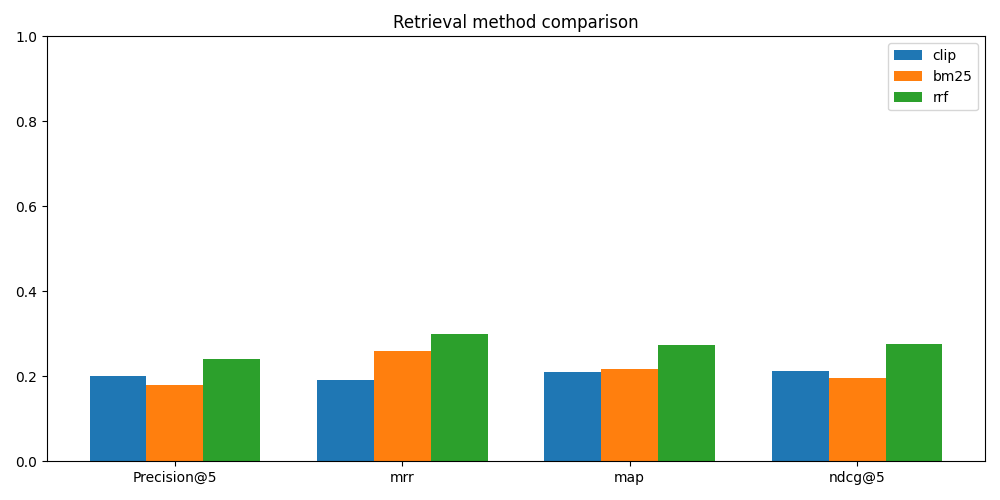
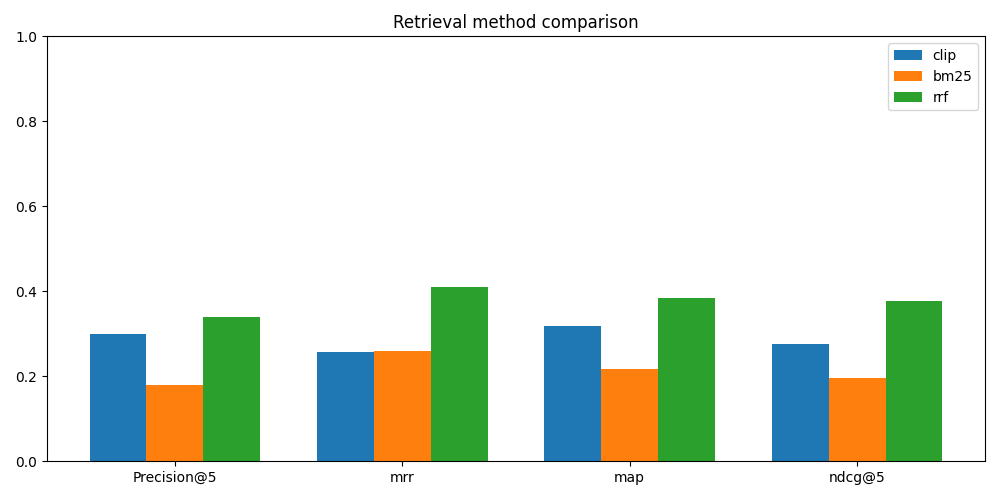
fine tuning script

diff --git a/fine_tune.py b/fine_tune.py
@@ -1,0 +1,28 @@
+# we should have the fine tuned model weights here for clip
+
+# imports
+import json
+import torch
+import numpy as np
+import open_clip
+import matplotlib.pyplot as plt
+
+from pathlib import Path
+from PIL import Image
+from torch.utils.data import Dataset, DataLoader
+from torch.optim import AdamW
+from torch.optim.lr_scheduler import CosineAnnealingLR
+
+
+# paths
+base_dir = Path(__file__).parent
+image_dir = base_dir / "dataset"
+corpus_path = base_dir / "dataset_text.json"
+ckpt_dir = base_dir / "checkpoints"
+
+ckpt_dir.mkdir(exist_ok=True)
+
+
+
+
+